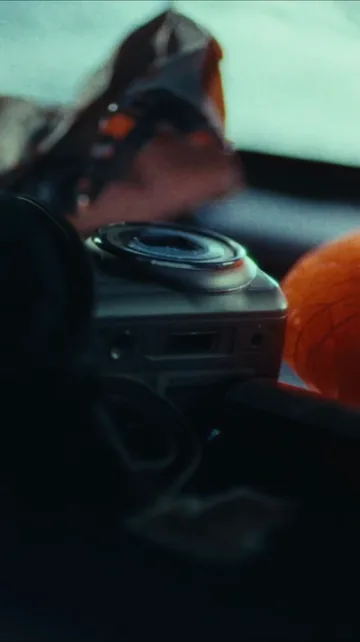
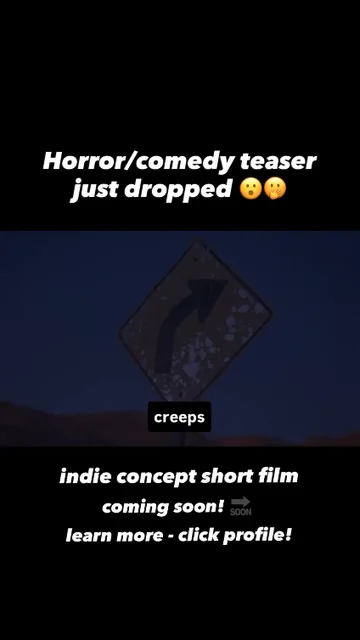
Walkers promo: title-card cover and real post thumbnails
Claude-Session: https://claude.ai/code/session_01PBdJsDFBfUDbvMUbZFcDx1

diff --git a/work.html b/work.html
@@ -179,7 +179,7 @@
       <article data-kind="promo narrative" class="promo">
         <button class="tile-frame vertical promo-card" type="button" aria-expanded="false" aria-controls="promo-walkers">
           <span class="light" aria-hidden="true"></span>
-          <img src="assets/stills/promo-walkers-cover.webp" alt="" width="540" height="960" loading="lazy" decoding="async">
+          <img src="assets/stills/promo-walkers-title.webp?v=202610291223" alt="" width="540" height="960" loading="lazy" decoding="async">
           <span class="promo-toggle" aria-hidden="true"></span>
           <span class="visually-hidden">Show 3 vertical videos from the Walkers campaign</span>
         </button>
@@ -187,15 +187,15 @@
         <span class="promo-sub">Vertical promo campaign to build support for the film, dir. <a href="https://www.christinawoofilms.com/" target="_blank" rel="noopener">Christina Woo</a>. 3 of several posts we planned and produced. <a href="https://www.instagram.com/walkersshortfilm/" target="_blank" rel="noopener">See the full campaign</a></span>
         <ul class="promo-list" id="promo-walkers" hidden>
           <li><button class="promo-clip" type="button" data-video="https://www.instagram.com/p/DeXXGMupA72/embed/" data-vertical="true" data-title="Walkers, WLKRS 1" aria-label="Play Walkers, WLKRS 1">
-            <span class="promo-clip-frame"><img src="assets/stills/promo-walkers-clip1.webp" alt="" width="360" height="640" loading="lazy" decoding="async"><span class="tile-play" aria-hidden="true"></span></span>
+            <span class="promo-clip-frame"><img src="assets/stills/promo-walkers-clip1.webp?v=20261029122331" alt="" width="360" height="640" loading="lazy" decoding="async"><span class="tile-play" aria-hidden="true"></span></span>
             <span class="promo-clip-label">WLKRS 1</span>
           </button></li>
           <li><button class="promo-clip" type="button" data-video="https://www.instagram.com/p/DekPBrOJsYu/embed/" data-vertical="true" data-title="Walkers, WLKRS 2" aria-label="Play Walkers, WLKRS 2">
-            <span class="promo-clip-frame"><img src="assets/stills/promo-walkers-clip2.webp" alt="" width="360" height="640" loading="lazy" decoding="async"><span class="tile-play" aria-hidden="true"></span></span>
+            <span class="promo-clip-frame"><img src="assets/stills/promo-walkers-clip2.webp?v=20261029122341" alt="" width="360" height="640" loading="lazy" decoding="async"><span class="tile-play" aria-hidden="true"></span></span>
             <span class="promo-clip-label">WLKRS 2</span>
           </button></li>
           <li><button class="promo-clip" type="button" data-video="https://www.instagram.com/p/DdzTvRhxUWy/embed/" data-vertical="true" data-title="Walkers, WLKRS 3" aria-label="Play Walkers, WLKRS 3">
-            <span class="promo-clip-frame"><img src="assets/stills/promo-walkers-clip3.webp" alt="" width="360" height="640" loading="lazy" decoding="async"><span class="tile-play" aria-hidden="true"></span></span>
+            <span class="promo-clip-frame"><img src="assets/stills/promo-walkers-clip3.webp?v=20261029122331" alt="" width="360" height="640" loading="lazy" decoding="async"><span class="tile-play" aria-hidden="true"></span></span>
             <span class="promo-clip-label">WLKRS 3</span>
           </button></li>
         </ul>
